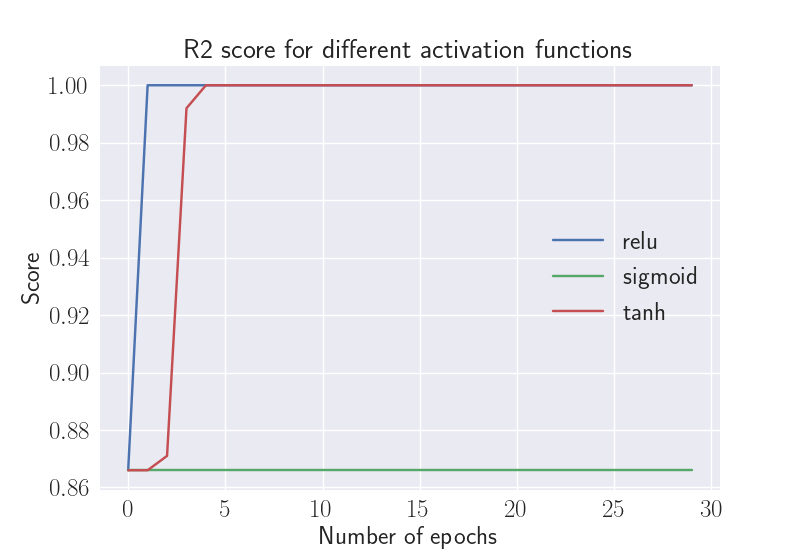
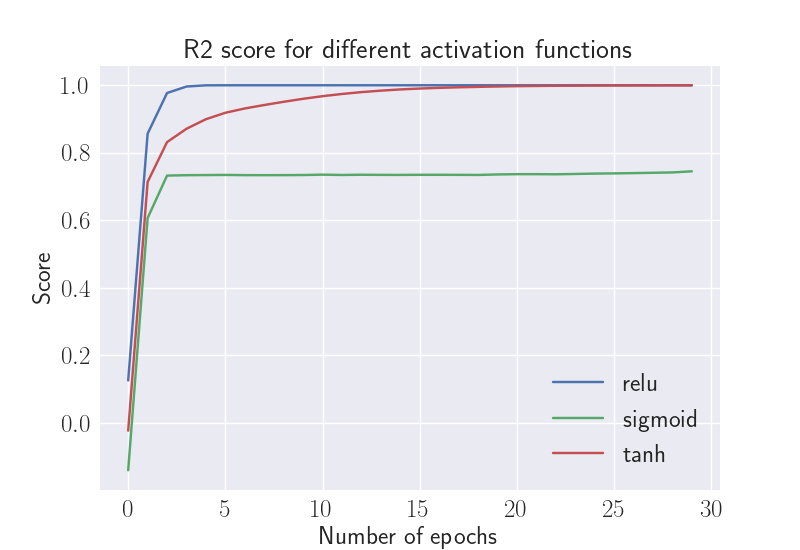
bias-variance tradeoff

diff --git a/Project3/Code/plot.py b/Project3/Code/plot.py
@@ -7,7 +7,7 @@ plt.style.use('seaborn')
 plt.rc('text', usetex=True)
 plt.rc('text.latex', preamble=r'\usepackage{amsmath}')
 
-def plot_R2(R2, N_epochs, act_funcs):
+def plot_R2(R2, act_funcs):
     fig1 = plt.figure()
     ax1 = fig1.add_subplot()
     ax1.set_title('R2 score for different activation functions', fontsize=20)
@@ -21,24 +21,20 @@ def plot_R2(R2, N_epochs, act_funcs):
 
     fig1.savefig(f'../Plots/R2')
 
-# def bias_variance_tradeoff(poly_degrees, MSE, bias, variance, N, title, fname):
-#     poly_degrees_new = np.arange(1, len(poly_degrees), 2)
-#     fig, ax = plt.subplots()
-#     ax.set_title(title, fontsize=20)
-#     ax.set_xticks(poly_degrees_new)
-#     ax.tick_params(axis='both', which='major', labelsize=18)
-#     ax.set_title(f'Test data, {N}x{N} datapoints', fontsize=18)
-#     ax.plot(poly_degrees, MSE[1], label='MSE')
-#     ax.plot(poly_degrees, bias[1], label='Bias')
-#     ax.plot(poly_degrees, variance[1], label='Variance')
-#     ax.set_xlabel('Polynomial Degree', fontsize=18)
-#     ax.tick_params(axis='both', which='major', labelsize=18)
-#     ax.legend(fontsize=18)
-#     fig.savefig(fname)
-#     plt.close(fig)
+def plot_bias_variance_tradeoff(loss_array, val_loss_array, act_funcs):
+    for i, act_func in enumerate(act_funcs):
+        fig, ax = plt.subplots()
+        ax.tick_params(axis='both', which='major', labelsize=18)
+        ax.set_title(f'Bias-Variance Tradeoff with {act_func}', fontsize=20)
+        ax.plot(loss_array[i,:], label='Train sample')
+        ax.plot(val_loss_array[i,:], label='Test sample')
+        ax.set_xlabel('Model complexity', fontsize=18)
+        ax.tick_params(axis='both', which='major', labelsize=18)
+        ax.legend(fontsize=18)
+        fig.savefig(f'../Plots/bias_variance_{act_func}')
 
 
-def plot_bias_accuracy(loss, val_loss, accuracy, val_accuracy, N_epochs, act_funcs):
+def plot_bias_accuracy(loss, val_loss, accuracy, val_accuracy, act_funcs):
 
     fig1 = plt.figure()
     ax1 = fig1.add_subplot()
@@ -90,7 +86,7 @@ def plot_bias_accuracy(loss, val_loss, accuracy, val_accuracy, N_epochs, act_fun
     fig3.savefig(f'../Plots/accuracy')
     fig4.savefig(f'../Plots/val_accuracy')
 
-def plot_bias_accuracy_simple(loss, val_loss, accuracy, val_accuracy, N_epochs, act_funcs):
+def plot_bias_accuracy_simple(loss, val_loss, accuracy, val_accuracy, act_funcs):
     fig1 = plt.figure()
     ax1 = fig1.add_subplot()
     ax1.set_title('Training loss without k-folding', fontsize=20)
@@ -114,7 +110,7 @@ def plot_bias_accuracy_simple(loss, val_loss, accuracy, val_accuracy, N_epochs, 
     ax3.tick_params(axis='both', which='major', labelsize=18)
 
 
-def plot_test_train_loss(loss, val_loss, N_epochs, act_funcs, lmbd, n_comps_list, N_samples, error_std):
+def plot_test_train_loss(loss, val_loss, act_funcs, lmbd, n_comps_list, N_samples, error_std):
     fig1 = plt.figure()
     ax1 = fig1.add_subplot()
     title = r'MSE for training - and test data, $\sigma$ ='+f'{error_std}'
@@ -149,7 +145,7 @@ def plot_expl_var(expl_var_list, error_std_list):
         print(f'Sum of the {i+1} first PCs = {np.sum(expl_var_list[0][0:i]*100)}')
 
 
-def plot_test_loss(val_loss, N_epochs, n_comps_list, error_std):
+def plot_test_loss(val_loss, n_comps_list, error_std):
     fig1 = plt.figure()
     ax1 = fig1.add_subplot()
     title = r'MSE for test data, $\sigma$ ='+f'{error_std}'
@@ -167,7 +163,7 @@ def plot_test_loss(val_loss, N_epochs, n_comps_list, error_std):
 
     fig1.savefig(f'../Plots/PCA_plots/Test_MSE_err{error_std}.png')
 
-def plot_test_train_reduced(loss, val_loss, N_epochs, act_funcs, lmbd, N_samples, error_std):
+def plot_test_train_reduced(loss, val_loss, act_funcs, lmbd, N_samples, error_std):
     fig, axes = plt.subplots(1,2)
 
     title = r'MSE, $\sigma$ ='+f'{error_std}'

diff --git a/Project3/Code/run_NN.py b/Project3/Code/run_NN.py
@@ -4,7 +4,7 @@ from sklearn.preprocessing import StandardScaler
 from sklearn.decomposition import PCA
 
 from NN_methods import NeuralNetwork
-from plot import plot_bias_accuracy, plot_bias_accuracy_simple, plot_R2
+from plot import plot_bias_accuracy, plot_bias_accuracy_simple, plot_R2, plot_bias_variance_tradeoff
 from common import prepare_data
 
 # Prepare some data
@@ -22,7 +22,7 @@ N_epochs = 30
 batch_size = 30
 eta = 0.0001
 lmbd = 1e-6
-N_folds = 10
+N_folds = 5 #10
 
 # Scale the data and append noice
 scaler = StandardScaler()
@@ -64,10 +64,9 @@ def run_kfold_DNN(act_funcs):
     accuracy_array = np.zeros_like(loss_array)
     val_accuracy_array = np.zeros_like(loss_array)
     R2_score_array = np.zeros_like(loss_array)
-    variance_array = np.zeros_like(loss_array)
 
     for i in range(len(act_funcs)):
-        pred, target_data, loss, val_loss, accuracy, val_accuracy, R2_score, variance = model.kfold(
+        pred, target_data, loss, val_loss, accuracy, val_accuracy, R2_score = model.kfold(
                                                         inputsize, N_layers, N_neurons,
                                                         N_epochs, N_folds, batch_size,
                                                         eta, lmbd, act_funcs[i]
@@ -77,15 +76,15 @@ def run_kfold_DNN(act_funcs):
         accuracy_array[i, :] = np.mean(accuracy, axis=0)
         val_accuracy_array[i, :] = np.mean(val_accuracy, axis=0)
         R2_score_array[i, :] = np.mean(R2_score, axis=0)
-        # variance_array[i, :] = np.mean(variance, axis=0)
         # print(f"Predictions with k-folding using {act_funcs[i]}:")
         # print("Prediction:")
         # print(pred[-1][0:5][:])
         # print("Target:")
         # print(target_data[-1][0:5][:])
 
-    plot_bias_accuracy(loss_array, val_loss_array, accuracy_array, val_accuracy_array, N_epochs, act_funcs)
-    plot_R2(R2_score_array, N_epochs, act_funcs)
+    plot_bias_accuracy(loss_array, val_loss_array, accuracy_array, val_accuracy_array, act_funcs)
+    plot_R2(R2_score_array, act_funcs)
+    plot_bias_variance_tradeoff(loss_array, val_loss_array, act_funcs)
 
 # Run PCA with k-folding
 def run_kfold_PCA(act_func):

diff --git a/Project3/Code/NN_methods.py b/Project3/Code/NN_methods.py
@@ -11,6 +11,7 @@ def r2_score(y_true, y_pred):
     SS_tot = K.sum(K.square(y_true - K.mean(y_true)))
     return ( 1 - SS_res/(SS_tot + K.epsilon()) )
 
+
 class NeuralNetwork:
     def __init__(self, X_train, X_test, y_train, y_test):
         self.X_train = X_train
@@ -72,7 +73,6 @@ class NeuralNetwork:
         accuracy = []
         val_accuracy = []
         R2_score = []
-        variance = []
 
         fold_no = 1
         for train, test in kfold.split(inputs, targets):
@@ -93,7 +93,7 @@ class NeuralNetwork:
             #Output layer
             model.add(Dense(3, activation=None))
             sgd = optimizers.SGD(learning_rate=eta, momentum=0.9)
-            model.compile(optimizer=sgd, loss='mse', metrics = ['accuracy', r2_score]) #['accuracy', 'variance', r2_score])
+            model.compile(optimizer=sgd, loss='mse', metrics = ['accuracy', r2_score])
             # Fit data to model
             fit_ = model.fit(
                     inputs[train], targets[train], batch_size, N_epochs,
@@ -108,10 +108,9 @@ class NeuralNetwork:
             accuracy.append(fit_.history['accuracy'])
             val_accuracy.append(fit_.history['val_accuracy'])
             R2_score.append(fit_.history['r2_score'])
-            # variance.append(fit_.history['variance'])
 
 
             # Increase fold number
             fold_no = fold_no + 1
         print(f'Training completed for {act_func}')
-        return pred, target_data, np.array(loss), np.array(val_loss), np.array(accuracy), np.array(val_accuracy), np.array(R2_score), np.array(variance)
+        return pred, target_data, np.array(loss), np.array(val_loss), np.array(accuracy), np.array(val_accuracy), np.array(R2_score)
